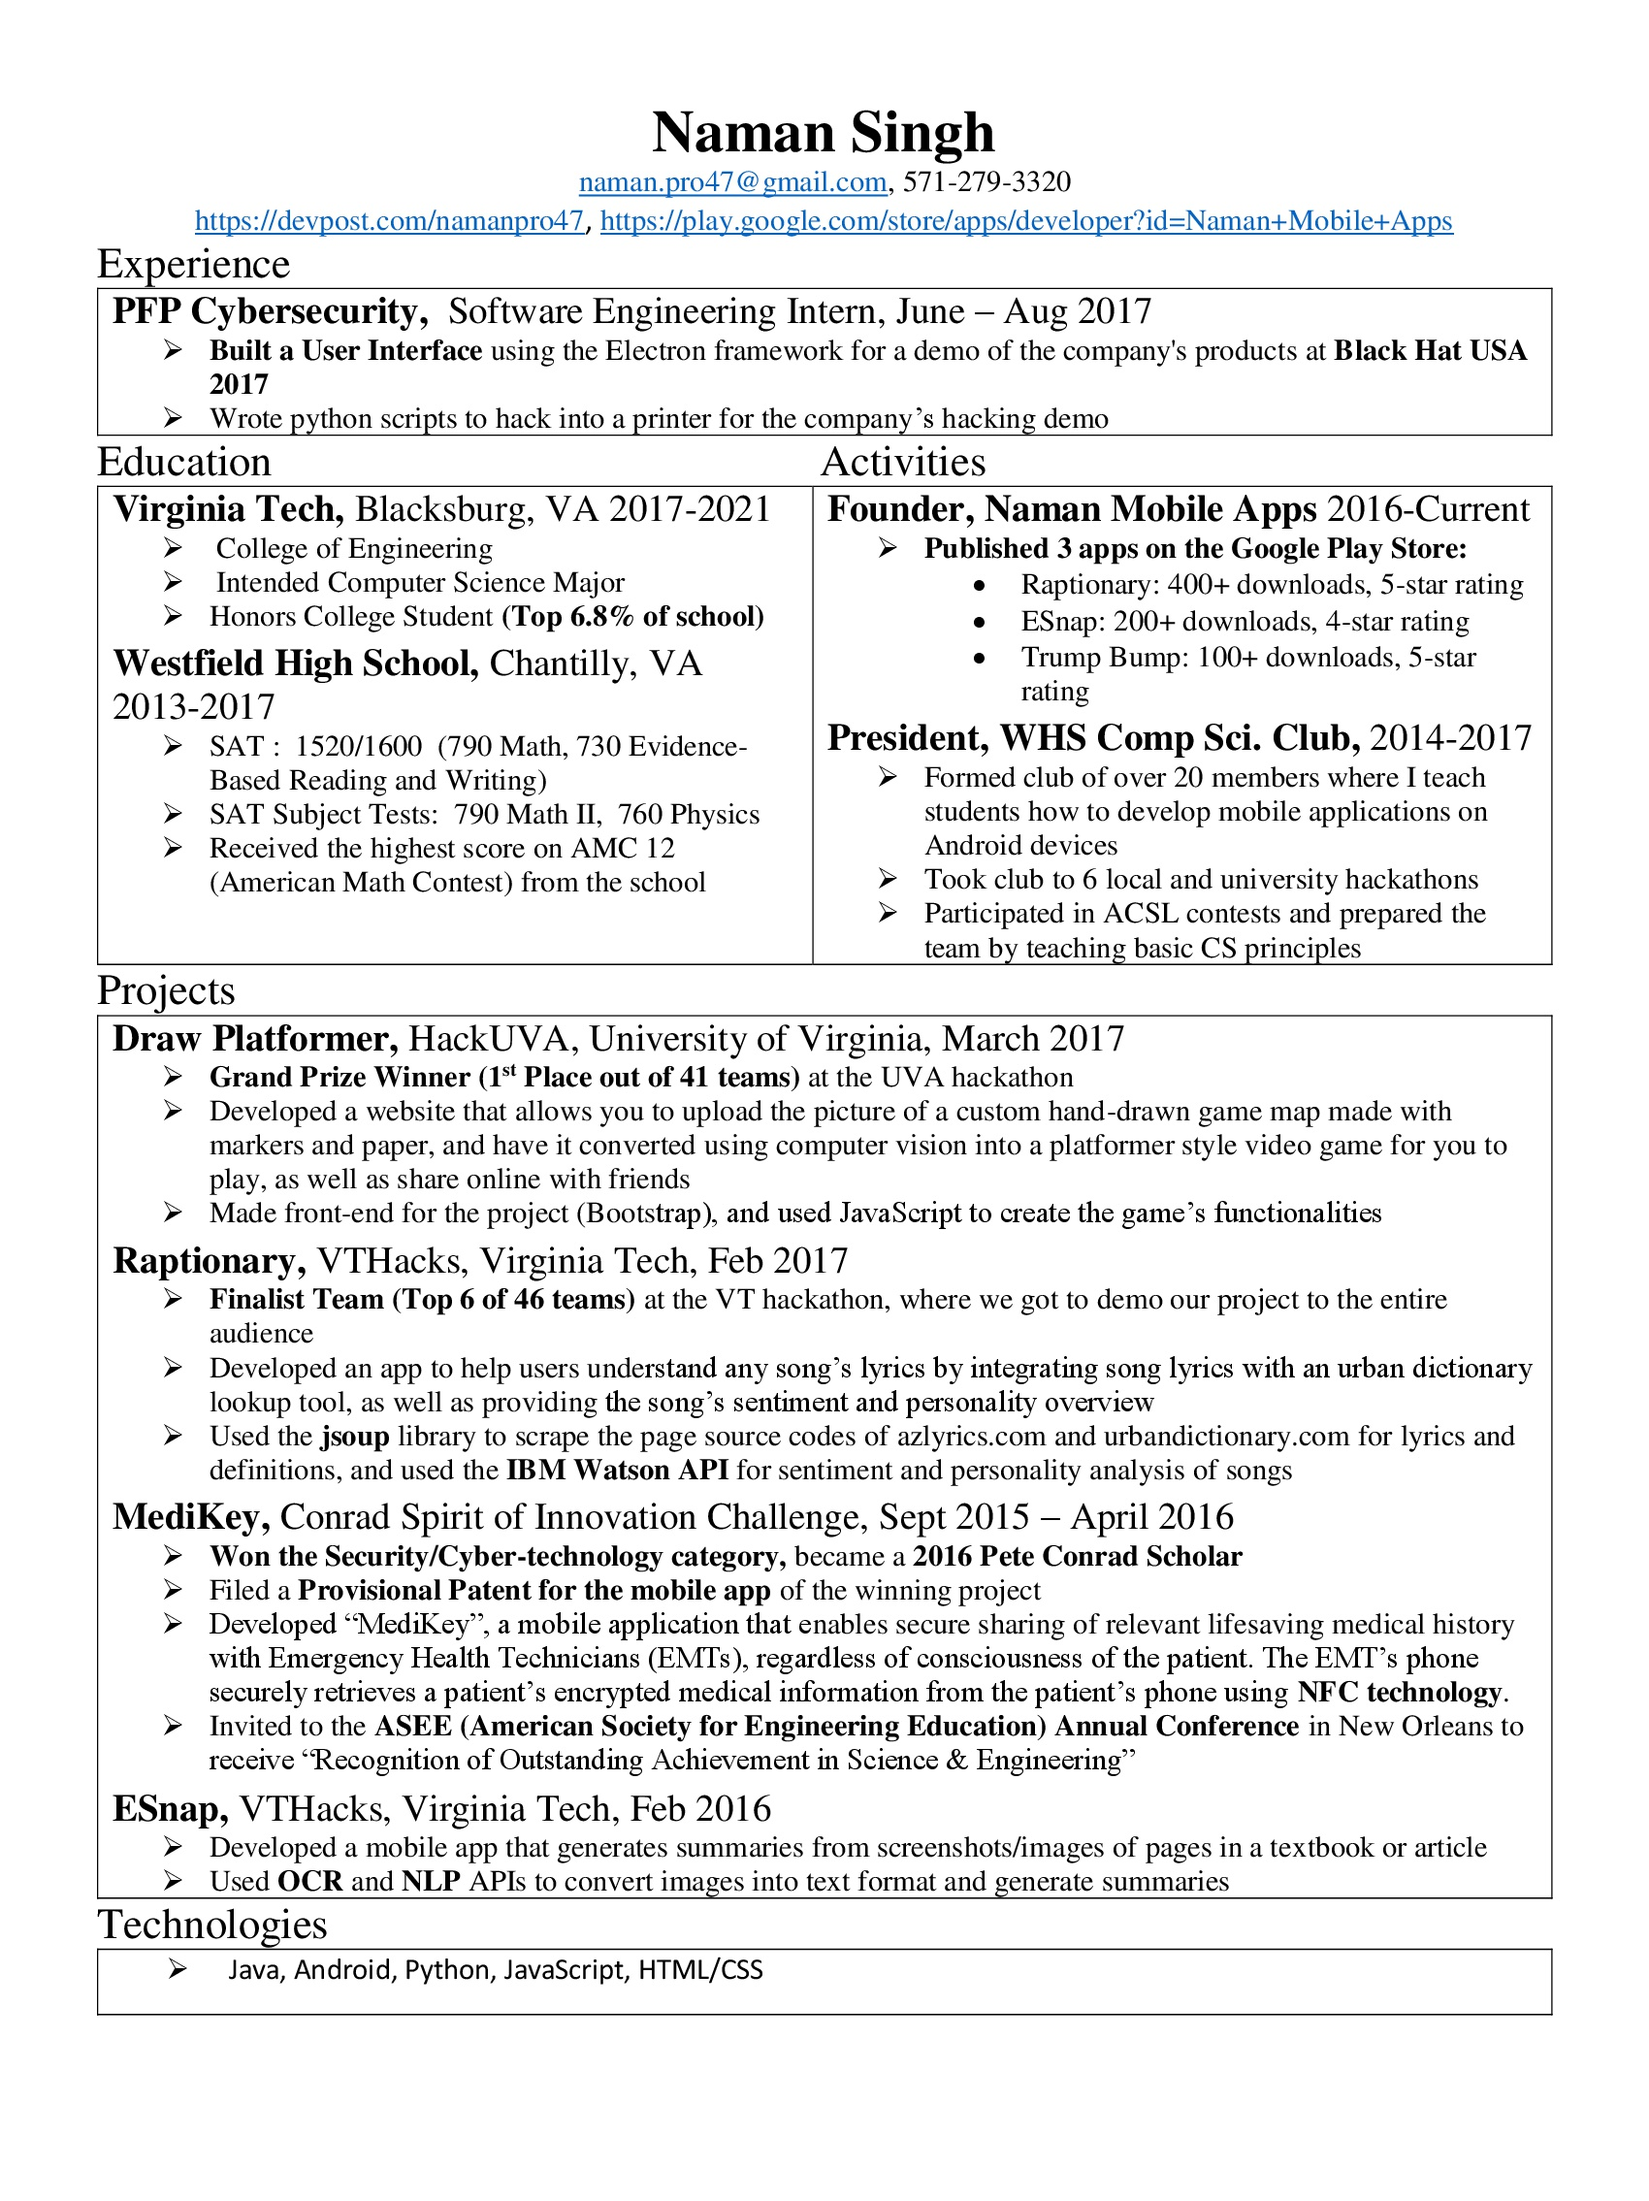
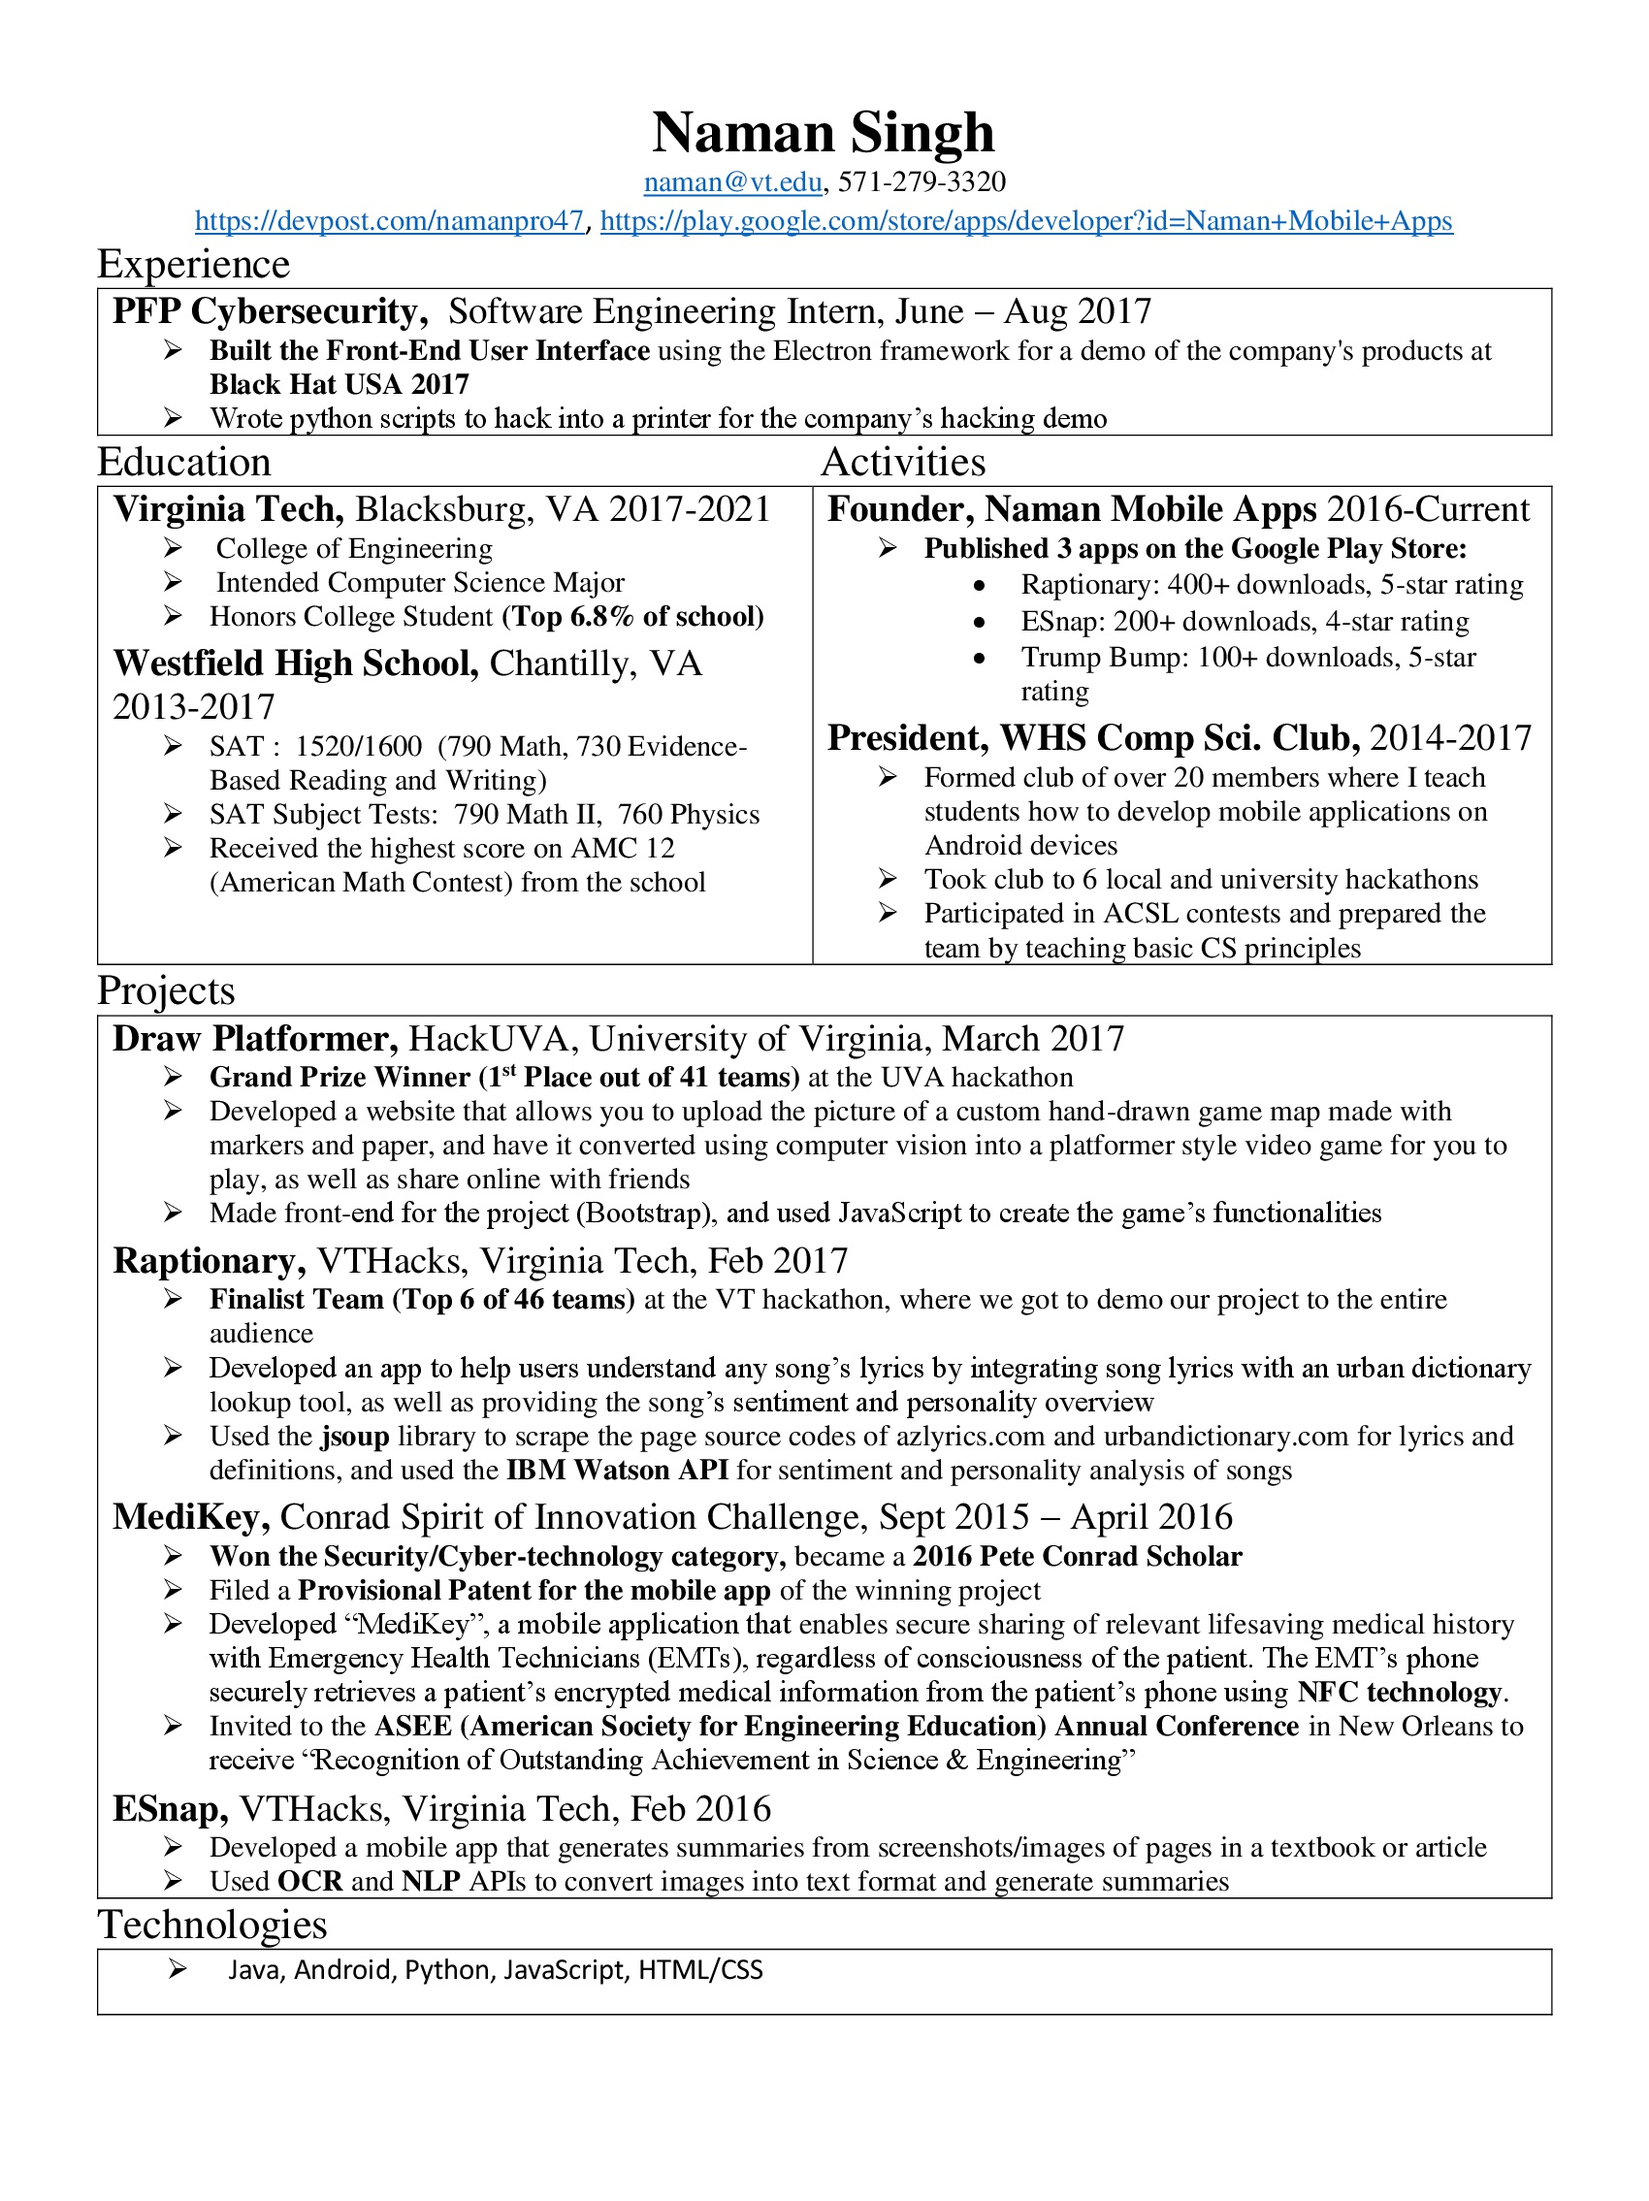
Resume Email Fix

diff --git a/index.html b/index.html
@@ -120,7 +120,7 @@
                     </span>-->
                     <h4 class="service-heading">Software Engineering Intern</h4>
                     <p><b>June 2017 - Current</b></p>
-                    <p class="text">At PFP Cybersecurity, I wrote python scripts for a printer hacking demo, and built the user interface for a demonstration of the company's products at <a target="_blank" href="https://www.blackhat.com/us-17"><b>Black Hat USA 2017</b></a>.</p>
+                    <p class="text">At <a target="_blank" href="https://www.pfpcyber.com"><b>PFP Cybersecurity</b></a>, I wrote python scripts for a printer hacking demo, and built the front-end UI for a demonstration of the company's products at <a target="_blank" href="https://www.blackhat.com/us-17"><b>Black Hat USA 2017</b></a>.</p>
                 </div>
                 <div class="col-md-4">
                     <img src="img/mobileappsbanner.png" style="width:330px;height:94px;margin-top: 10px">
